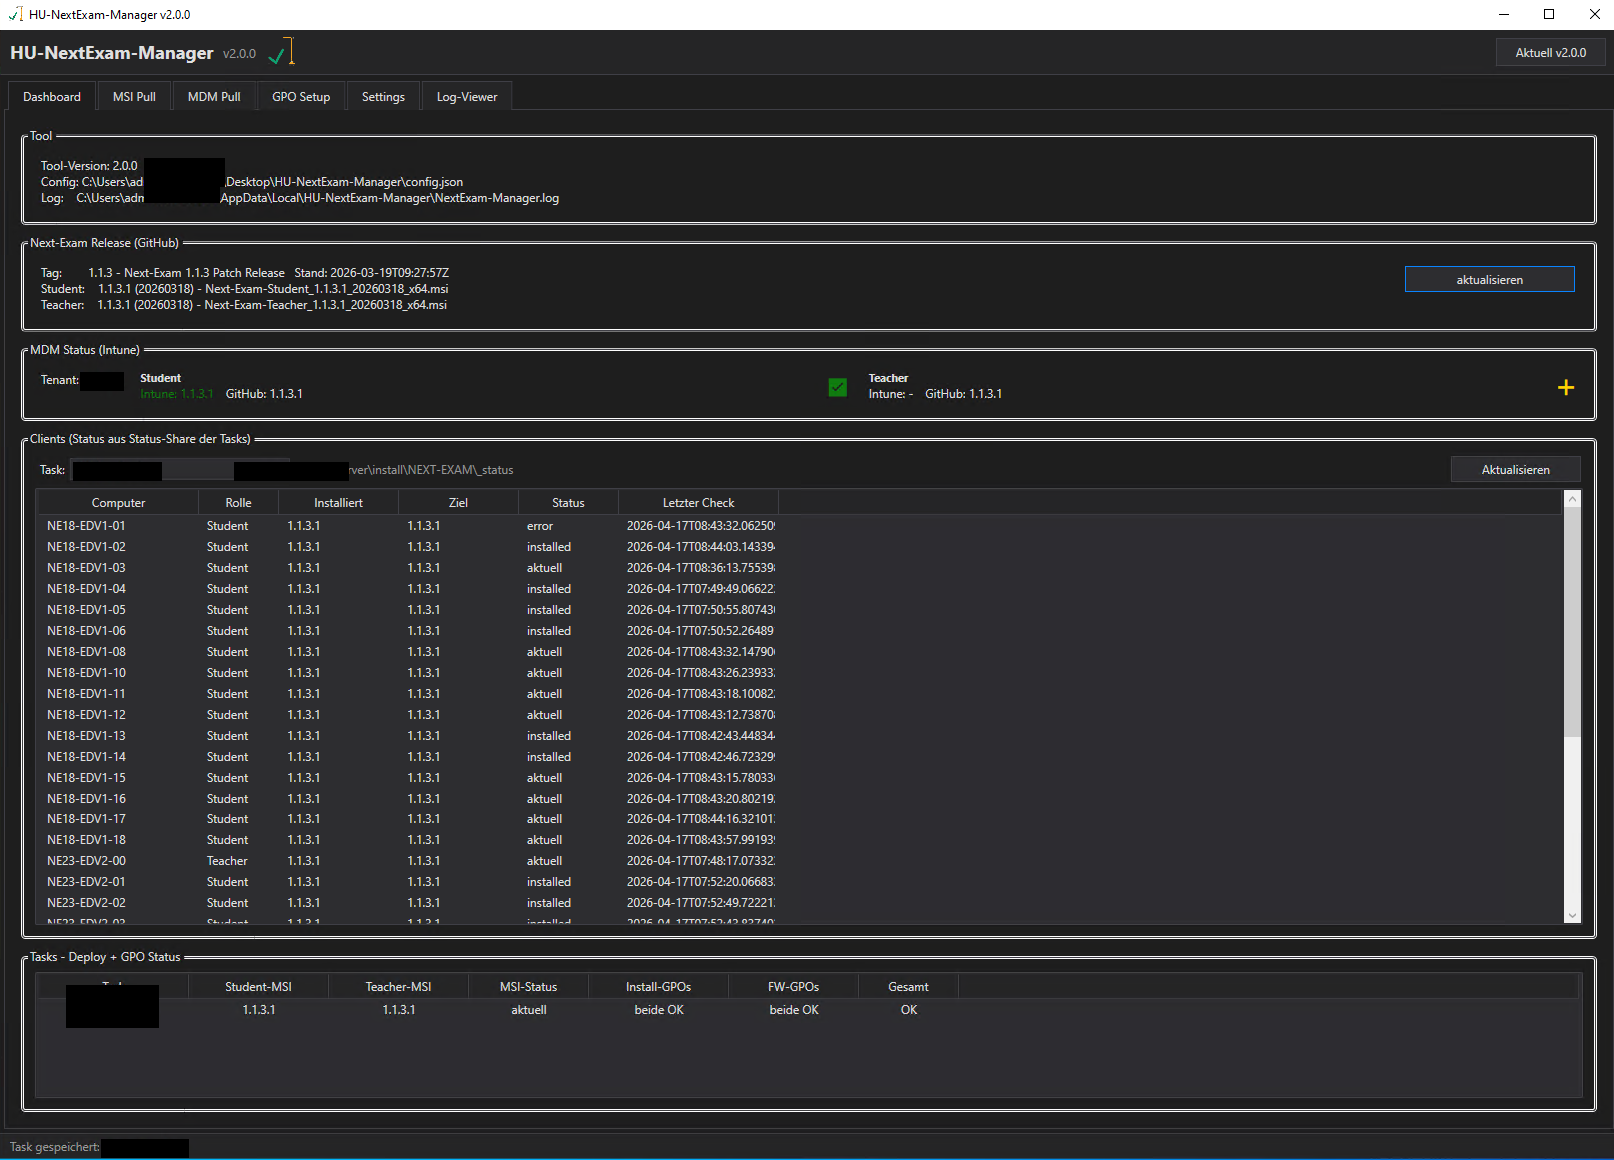
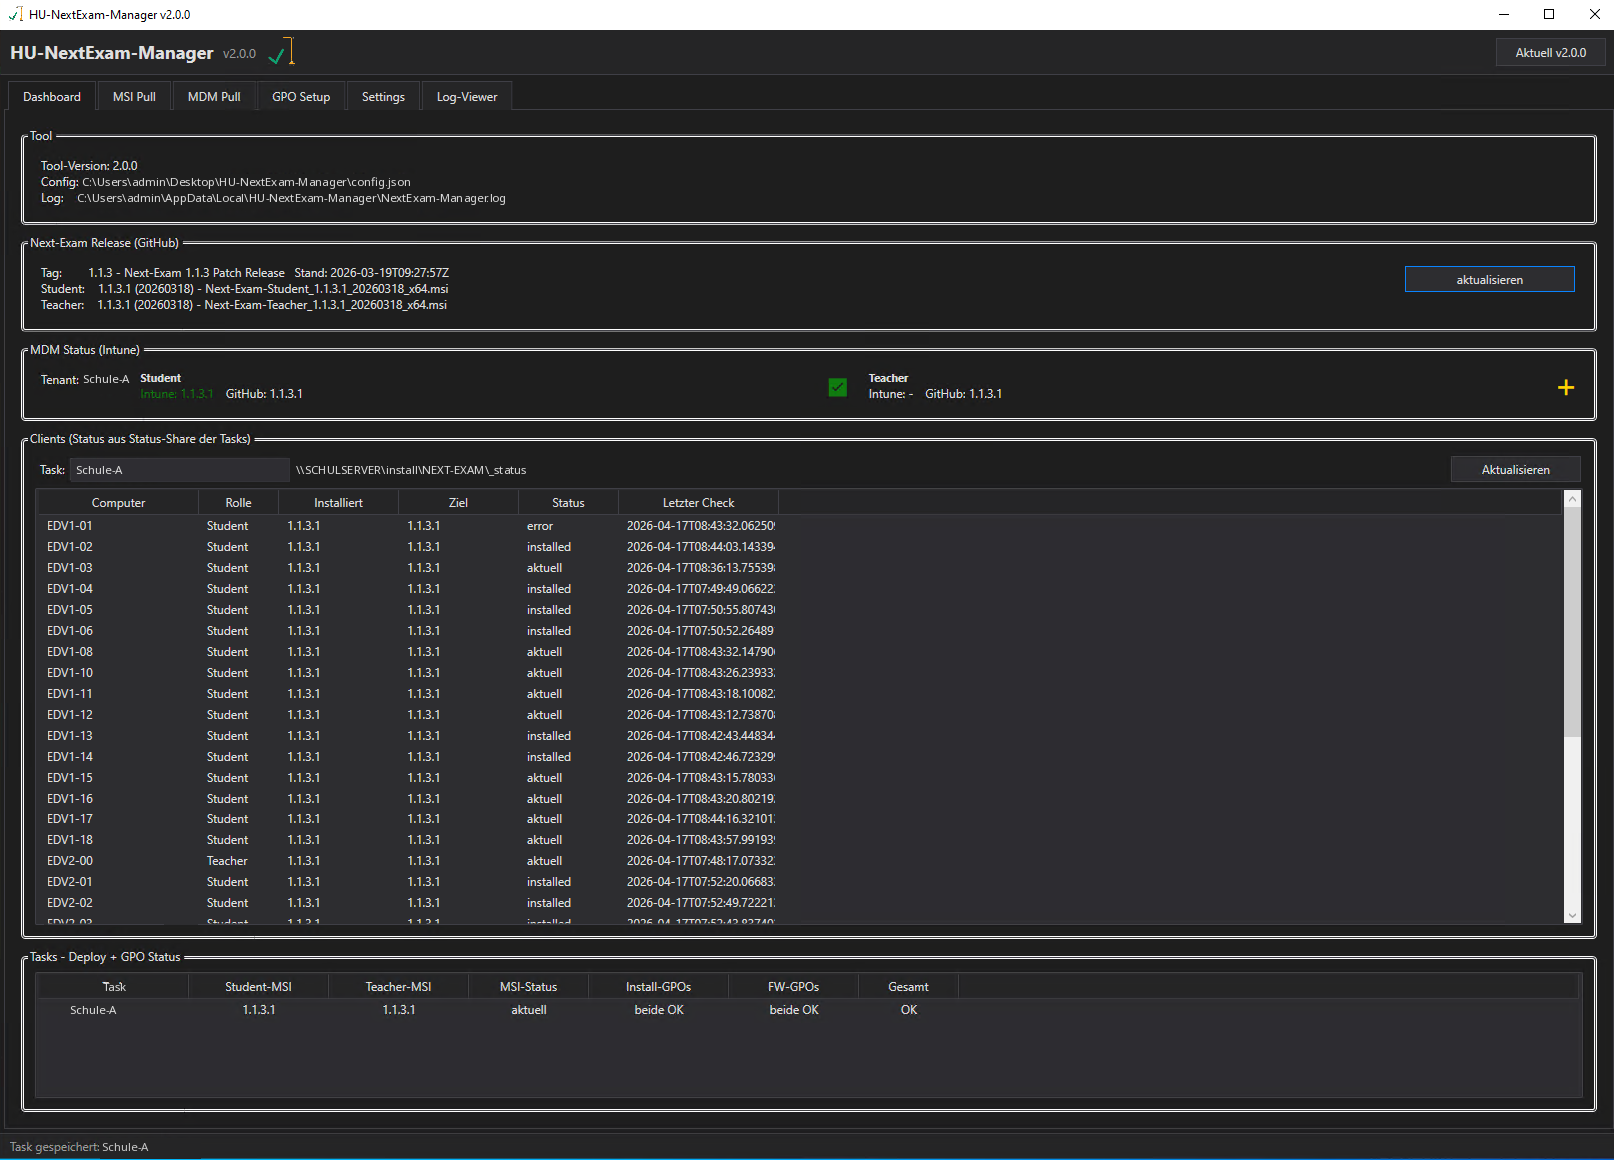
docs: Schulnamen, Raumpraefixe und IDs aus Screenshots und Beispielen entfernt

diff --git a/Docs/Anleitung.html b/Docs/Anleitung.html
@@ -168,7 +168,7 @@ cd $d; .\Pull.ps1</pre></li>
     <tr><th style="width:260px">Feld</th><th>Bedeutung</th></tr>
     <tr><td><b>Anzeigename</b></td><td>Name des Tasks in allen Listen.</td></tr>
     <tr><td><b>Domain FQDN</b></td><td>z. B. <code>schule.local</code>.</td></tr>
-    <tr><td><b>DC Server (Hostname oder IP)</b></td><td>Domänencontroller für alle GPO-Operationen. <b>Den vollqualifizierten Namen eintragen</b> (z. B. <code>DC1.schule.intern</code>) – mit Kurzname oder IP kann der SYSVOL-Zugriff scheitern (siehe <a href="#fehler">Fehlerbehebung</a>).</td></tr>
+    <tr><td><b>DC Server (Hostname oder IP)</b></td><td>Domänencontroller für alle GPO-Operationen. <b>Den vollqualifizierten Namen eintragen</b> (z. B. <code>DC1.schule.local</code>) – mit Kurzname oder IP kann der SYSVOL-Zugriff scheitern (siehe <a href="#fehler">Fehlerbehebung</a>).</td></tr>
     <tr><td><b>Student-Share (UNC)</b> / <b>Teacher-Share (UNC)</b></td><td>Ablage der MSIs, z. B. <code>\\FILESRV\install\NEXT-EXAM\Student</code>. <span class="ui">...</span> öffnet die Ordnerauswahl. Clients brauchen Leserecht, Schreibrecht nur Admins.</td></tr>
     <tr><td><b>Status-Share (Client-Feedback) - UNC</b></td><td>Optional. Clients schreiben nach jeder Prüfung eine kleine JSON-Datei hinein. Vorschlag: <code>&lt;übergeordneter Ordner des Student-Shares&gt;\_status</code>. <span class="ui">Anlegen + ACL</span> legt den Ordner an und setzt die Rechte – siehe <a href="#clients">Clients-Status</a>. Leer = kein Client-Feedback.</td></tr>
     <tr><td><b>OU-Ziel Student</b> / <b>OU-Ziel Teacher</b></td><td>OU als <b>DistinguishedName</b>, z. B. <code>OU=Workstations,OU=EDV,DC=schule,DC=local</code>. Hierhin werden Install- und Firewall-GPOs verknüpft.</td></tr>
@@ -371,7 +371,7 @@ cd $d; .\Pull.ps1</pre></li>
   <h3 id="e80070005">Install-GPOs / FW-GPOs: „Zugriff verweigert (0x80070005)“</h3>
   <p>Typisch: Löschen und WMI-Filter funktionieren, alles mit SYSVOL-Anteil nicht. Zwei bekannte Ursachen – jeweils <b>auf dem Rechner prüfen, auf dem das Tool läuft</b>:</p>
   <ol class="steps">
-    <li><b>DC als Kurzname oder IP eingetragen.</b> SYSVOL ist von manchen Servern nur über den FQDN des DCs erreichbar. In <span class="ui">Settings</span> › Task › <b>DC Server</b> den FQDN eintragen (z. B. <code>DC1.schule.intern</code> statt <code>DC1</code>) und speichern. Test: <code>Get-GPO -All -Server DC1.schule.intern</code> gegen <code>-Server DC1</code>.</li>
+    <li><b>DC als Kurzname oder IP eingetragen.</b> SYSVOL ist von manchen Servern nur über den FQDN des DCs erreichbar. In <span class="ui">Settings</span> › Task › <b>DC Server</b> den FQDN eintragen (z. B. <code>DC1.schule.local</code> statt <code>DC1</code>) und speichern. Test: <code>Get-GPO -All -Server DC1.schule.local</code> gegen <code>-Server DC1</code>.</li>
     <li><b>Veralteter DNS-Eintrag der Domäne.</b> <code>nslookup &lt;domäne&gt;</code> – liefert es mehr Adressen als es DCs gibt, zeigt ein Eintrag auf einen Nicht-DC, und <code>\\&lt;domäne&gt;\SYSVOL</code> läuft zeitweise ins Leere. Den falschen A-Eintrag am Zonen-Stamm im DNS löschen.</li>
   </ol>
   <p>Erscheint die Meldung beim Aktualisieren einer bestehenden Install-GPO (Datei mit anderem Besitzer aus einem früheren Lauf), bietet das Tool an, <b>nur diese eine GPO</b> zu löschen und neu anzulegen. Ihre OU-Verknüpfungen müssen danach mit <span class="ui">Mit OU verknuepfen</span> neu gesetzt werden.</p>

diff --git a/Docs/CHANGELOG.md b/Docs/CHANGELOG.md
@@ -3,8 +3,8 @@
 ## v3.2.3 (2026-10-02)
 
 ### Behoben
-- **Clients-Status zeigte bei gemeinsamem Status-Share alle Schulen** (z.B. BHAK + BORG
-  Eisenerz auf demselben Schulserver): Nutzen mehrere Tasks denselben Status-Share, zeigt
+- **Clients-Status zeigte bei gemeinsamem Status-Share alle Schulen** (z.B. zwei
+  Schulen auf demselben Schulserver): Nutzen mehrere Tasks denselben Status-Share, zeigt
   der Clients-Reiter pro Task nur dessen Rechner: alle Computer unter den OUs (bzw. der
   Domaene), an denen die Install-GPOs des Tasks verknuepft sind (gPLink) - unabhaengig von
   den im Task eingetragenen OUs. Nur wenn keine Verknuepfung gefunden wird, gelten die
